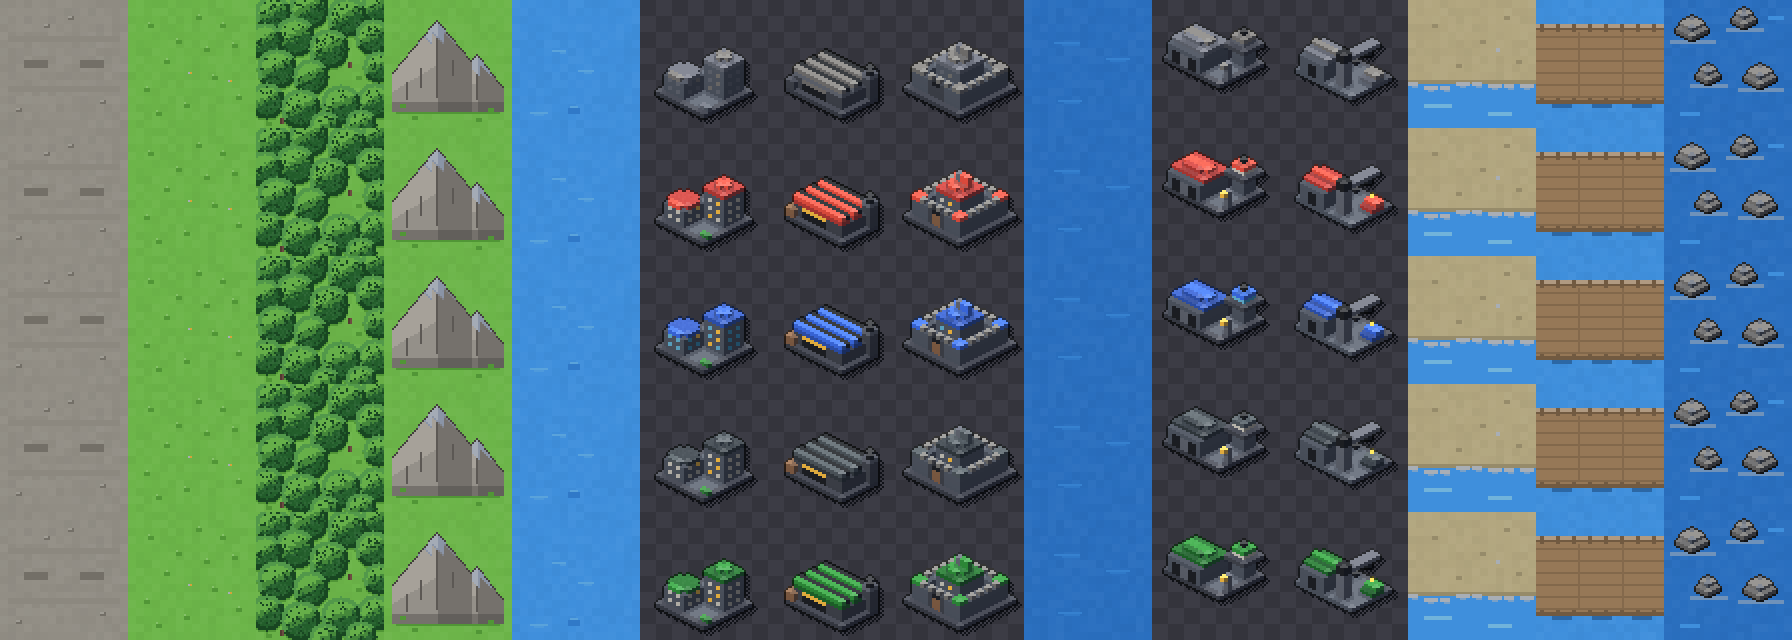
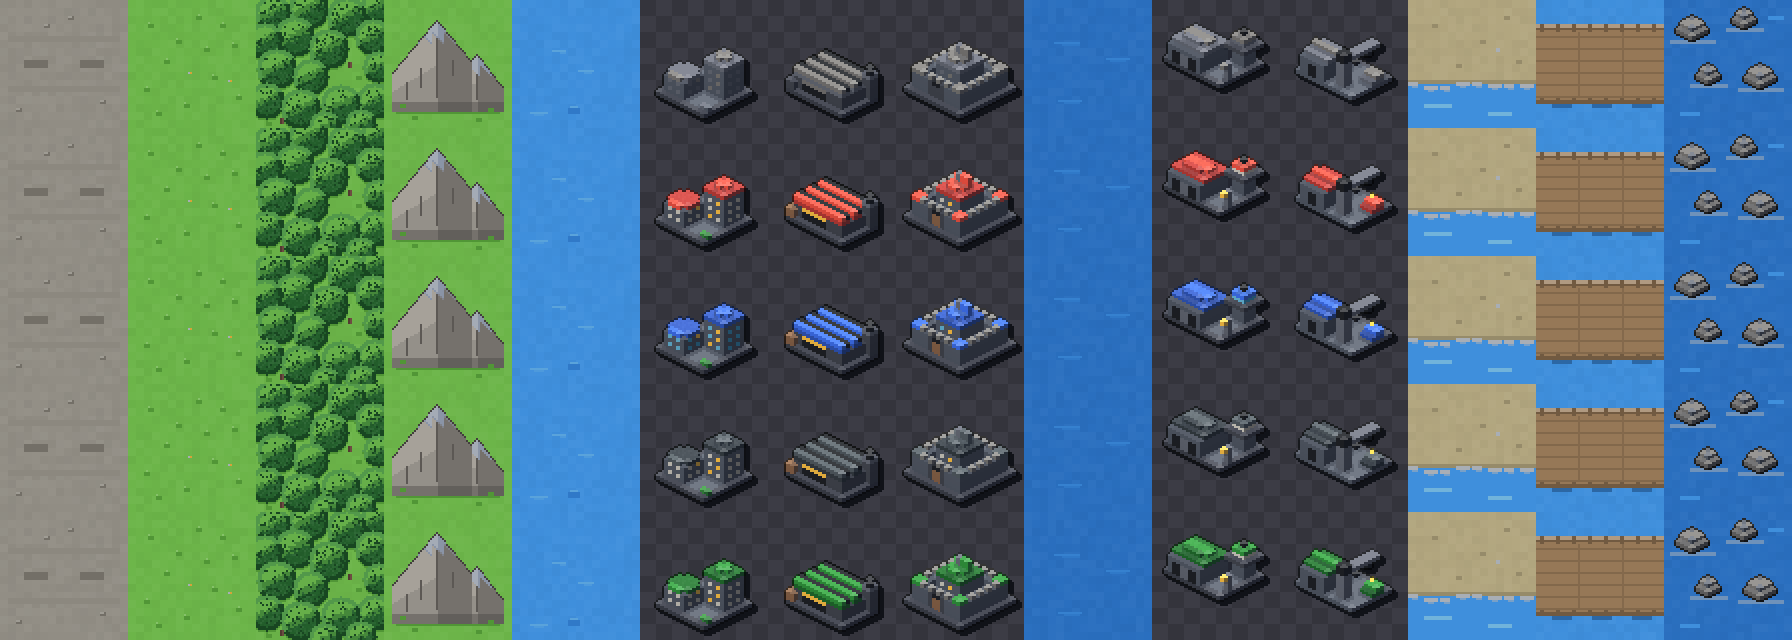
Make the buildings' drop shadow solid
Stamp every opaque sprite pixel offset by SHADOW_OFFSET, replacing the 1px checkerboard; tests pin solidity and per-rung share.

diff --git a/tests/test_generated_output.py b/tests/test_generated_output.py
@@ -619,7 +619,7 @@ class PropertyOverlays(unittest.TestCase):
 
     Design review rounds 4 and 5: the five property columns baked the plains
     green into their cells, so a city on road or beach wore a green square.
-    They now carry the building, its base plate and its dithered shadow, and
+    They now carry the building, its base plate and its solid shadow, and
     nothing else; the board paints the ground under them.
     """
 
@@ -666,21 +666,51 @@ class PropertyOverlays(unittest.TestCase):
                     raw = cell.tobytes()
                     self.assertEqual({raw[i] for i in range(3, len(raw), 4)}, {0, 255})
 
-    def test_the_shadow_is_an_opaque_dither(self):
+    def _shadow(self, tid: str, fac) -> list[tuple[int, int]]:
+        px = self._cell(tid, fac).load()
+        return [
+            (x, y)
+            for y in range(CELL)
+            for x in range(CELL)
+            if px[x, y] == (*terrain.SHADOW, 255)
+        ]
+
+    def test_the_shadow_is_opaque_and_solid(self):
+        # Both parities, so it cannot go back to a 1px checkerboard unnoticed
+        # — see CastShadow for the measurement that retired that shape.
         for tid in sorted(terrain.PROPERTY):
             for fac in FACTIONS:
-                cell = self._cell(tid, fac)
-                px = cell.load()
-                shadow = [
-                    (x, y)
-                    for y in range(CELL)
-                    for x in range(CELL)
-                    if px[x, y] == (*terrain.SHADOW, 255)
-                ]
                 with self.subTest(tile=tid, faction=fac.key):
+                    shadow = self._shadow(tid, fac)
                     self.assertGreater(len(shadow), 0)
-                    # every shadow pixel on one phase of the checkerboard
-                    self.assertEqual({(x + y) % 2 for x, y in shadow}, {0})
+                    self.assertEqual({(x + y) % 2 for x, y in shadow}, {0, 1})
+
+    # CastShadow's tolerance is 0.15 over a whole army; a building's shadow is
+    # a ~130px band two pixels wide, so at 4:1 the sampling grid still lands on
+    # more of one diagonal than another and solid comes in at 0.69-1.38. That
+    # residual is the band's SHAPE. The checkerboard's was structure: 0.00-2.76
+    # at 4:1 and 0.00-2.00 at 2:1, where a phase draws none of the shadow at
+    # all. Solid measures 0.97-1.06 at 2:1 and exactly 1.0 at 1:1.
+    RUNG_TOLERANCE = 0.45
+
+    def test_every_rung_draws_the_same_share_of_the_shadow(self):
+        for tid in sorted(terrain.PROPERTY):
+            shadow = self._shadow(tid, FACTIONS[1])
+            for ratio in (4, 2, 1):
+                for phase_y in range(ratio):
+                    for phase_x in range(ratio):
+                        drawn = sum(
+                            1
+                            for x, y in shadow
+                            if x % ratio == phase_x and y % ratio == phase_y
+                        )
+                        share = drawn * ratio * ratio / len(shadow)
+                        with self.subTest(
+                            tile=tid, ratio=ratio, phase=(phase_x, phase_y)
+                        ):
+                            self.assertAlmostEqual(
+                                share, 1.0, delta=self.RUNG_TOLERANCE
+                            )
 
     def test_the_tile_and_the_exported_cell_place_one_building(self):
         # The atlas tile is the exported iso_buildings cell plus a shadow, so

diff --git a/spritegen/terrain.py b/spritegen/terrain.py
@@ -473,19 +473,27 @@ PROPERTY_ANCHOR: dict[str, tuple[int, int]] = {
 
 # The shadow a building drops on whatever ground it is standing on: the
 # building's own silhouette, shifted down-right away from the light every
-# model is lit from, in the same dither tone the unit cells cast.
+# model is lit from, in the same tone the unit cells cast.
 SHADOW = (16, 18, 24)
 SHADOW_OFFSET = (2, 2)
 
 
 def _drop_shadow(cell: Image.Image, sprite: Image.Image, x0: int, y0: int) -> None:
-    """Stamp `sprite`'s shadow into `cell`, as a hard 50% dither.
+    """Stamp `sprite`'s silhouette into `cell` as a hard SOLID shadow.
 
-    Opaque pixels on a checkerboard, never partial alpha: the sheet is read
-    at 16px on the board and blown up in the cut-in, and a soft alpha edge is
-    a halo at one end and a grey stain at the other (the units' contact
-    shadows are the same dither for the same reason). Half the pixels missing
-    is what lets the ground the board paints underneath read through.
+    Opaque pixels, never partial alpha: the sheet is read at 16px on the board
+    and blown up in the cut-in, and a soft alpha edge is a halo at one end and
+    a grey stain at the other.
+
+    It used to be a 1px checkerboard, so that half the pixels missing let the
+    ground the board paints underneath read through. That argument only ever
+    held at one sampling ratio: the board draws this 64px cell onto a 16px
+    grid with nearest filtering at whole zoom rungs 1..5, keeping one source
+    pixel in 4/z, and a 1px parity is a different picture at every one of them
+    — solid zoomed out, thin at the default rung, and loose dots at rung 4
+    where the art is 1:1, which is the stippled fringe a city wore. The units'
+    cast shadow went solid for the same measurement (`voxel._shadow_ellipse`);
+    this is the same contract, on the drawer that had been left behind.
     """
     px = cell.load()
     sp = sprite.load()
@@ -495,7 +503,7 @@ def _drop_shadow(cell: Image.Image, sprite: Image.Image, x0: int, y0: int) -> No
             if sp[xx, yy][3] == 0:
                 continue
             tx, ty = x0 + xx + dx, y0 + yy + dy
-            if not (0 <= tx < CELL and 0 <= ty < CELL) or (tx + ty) % 2:
+            if not (0 <= tx < CELL and 0 <= ty < CELL):
                 continue
             px[tx, ty] = (*SHADOW, 255)
 

diff --git a/README.md b/README.md
@@ -32,7 +32,7 @@ unarmed). Property terrains (city, base, hq, airport, port) are tinted per
 row; every other terrain repeats one tile down its column.
 
 The five property columns are **transparent overlays**: the building, its
-base plate and a dithered drop shadow, with the ground around them left
+base plate and a solid drop shadow, with the ground around them left
 empty. Baking the plains green into those cells put a green square around
 every city standing on road or beach; the board paints the ground under a
 property and the building reads as an object on it. Consumers compose
@@ -106,6 +106,22 @@ to it. The sub's **wake** followed: it ran on the shadow's own parity so that
 it showed exactly where the checkerboard did not reach, so it is now drawn
 solid and over the shadow — foam is what the surface does over the
 displacement shading, not a stipple interleaved with it.
+
+The **buildings' drop shadow** (`terrain._drop_shadow`, a different drawer)
+was left on the checkerboard by that pass, which is why a city still wore a
+stippled fringe at 1:1. It is solid now on the same reading: over the five
+property cells the checkerboard drew **0%-276%** of its own density at rung 1
+and **0%-200%** at rung 2 — a whole sampling phase drawing none of it — where
+solid measures 0.97-1.06 at rung 2 and exactly 1.0 at rung 4. At rung 1 solid
+still spreads 0.69-1.38, and that residual is the band's own **shape**: a
+building's shadow is a ~130px silhouette two pixels wide, so the sampling grid
+lands on more of one diagonal than another however it is filled.
+`PropertyOverlays` holds it. The tone is unchanged and deliberately still the
+units' `SHADOW` — one shade on one board — the doubled coverage having been
+rendered on plains, road and shoal at all three rungs against the dither and
+three lighter tones: solid is indistinguishable from the dither at rungs 1 and
+2, reads as shade rather than dots at rung 4, and every lighter tone loses the
+shadow entirely on road and shoal when zoomed out.
 
 ## Setup
 
